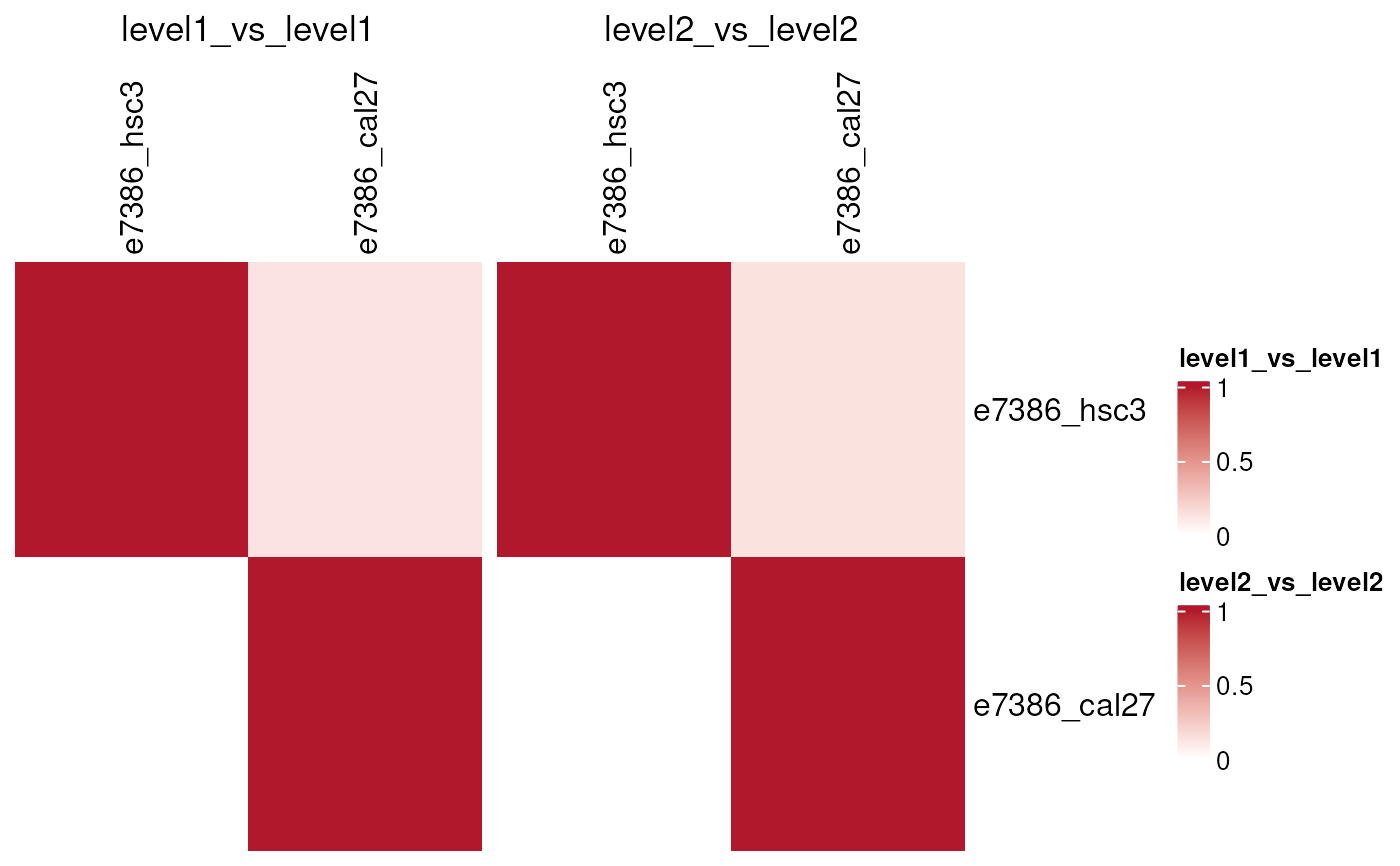
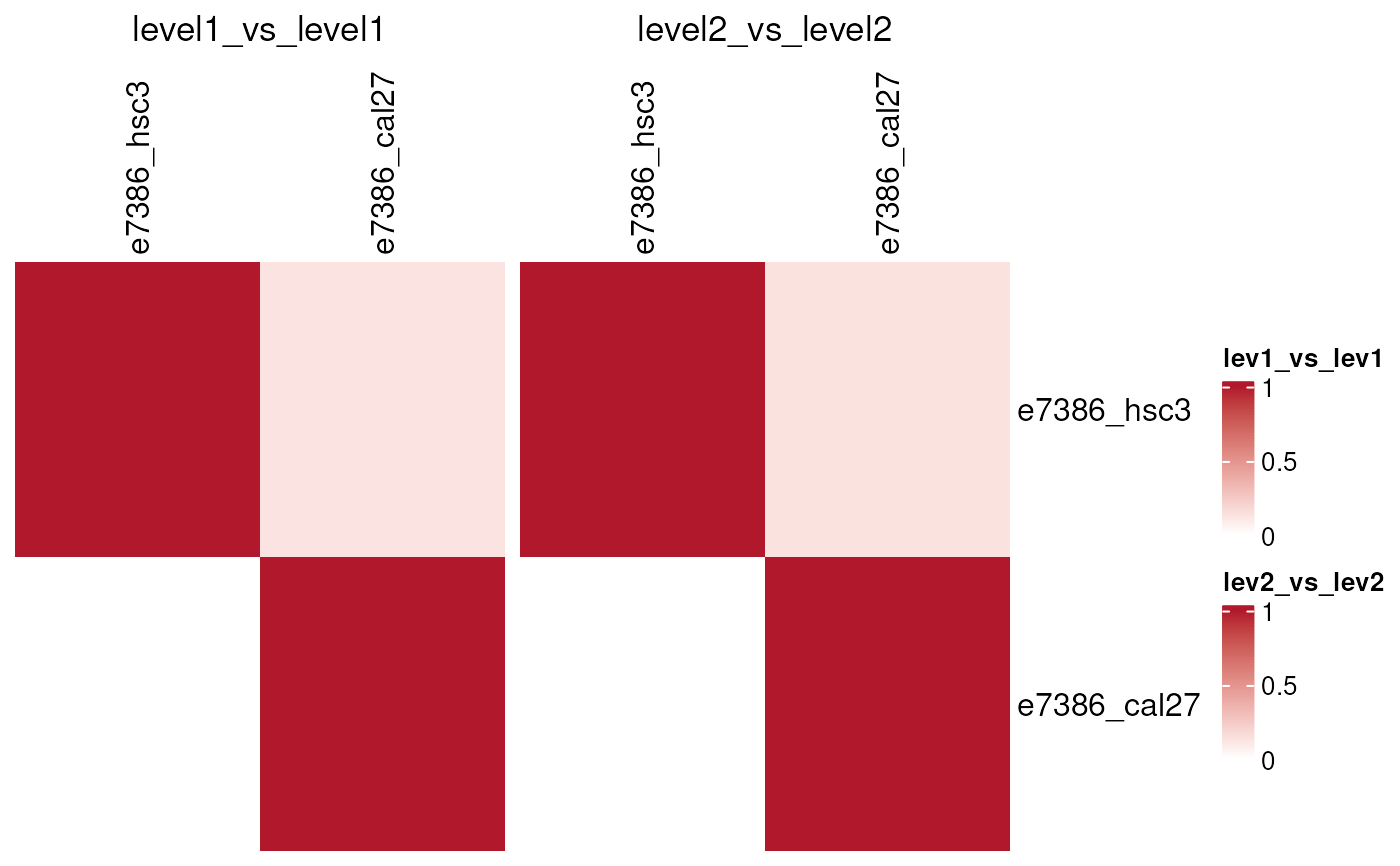
Deploying to gh-pages from @ montilab/OmicSignature@cd31e2afa5b76feede658efe0e186e636c1a1134 🚀

diff --git a/reference/compare_omic_signatures.html b/reference/compare_omic_signatures.html
@@ -67,6 +67,7 @@ a two-sample Kolmogorov-Smirnov test, or fgsea.</p>
 <span>  feature_col <span class="op">=</span> <span class="st">"feature_name"</span>,</span>
 <span>  score_col <span class="op">=</span> <span class="st">"score"</span>,</span>
 <span>  adj_p_col <span class="op">=</span> <span class="st">"adj_p"</span>,</span>
+<span>  p_value_col <span class="op">=</span> <span class="st">"p_value"</span>,</span>
 <span>  group_col <span class="op">=</span> <span class="st">"group_label"</span>,</span>
 <span>  adjust <span class="op">=</span> <span class="cn">FALSE</span>,</span>
 <span>  p_adjust_method <span class="op">=</span> <span class="st">"BH"</span>,</span>
@@ -139,6 +140,11 @@ to use for each signature in `sig_list2`.</p></dd>
 <dd><p>Column containing adjusted p-values in difexp tables.</p></dd>
 
 
+<dt id="arg-p-value-col">p_value_col<a class="anchor" aria-label="anchor" href="#arg-p-value-col"></a></dt>
+<dd><p>Column containing p-values used to rank difexp tables for
+KS and GSEA comparisons.</p></dd>
+
+
 <dt id="arg-group-col">group_col<a class="anchor" aria-label="anchor" href="#arg-group-col"></a></dt>
 <dd><p>Column containing phenotype group labels.</p></dd>
 
@@ -152,7 +158,9 @@ to use for each signature in `sig_list2`.</p></dd>
 
 
 <dt id="arg-alternative">alternative<a class="anchor" aria-label="anchor" href="#arg-alternative"></a></dt>
-<dd><p>Alternative hypothesis for Fisher and KS tests.</p></dd>
+<dd><p>Alternative hypothesis for Fisher and KS tests. For KS,
+<code>"greater"</code> tests whether the feature set is enriched at the top of the
+signed ranking, and <code>"less"</code> tests enrichment at the bottom.</p></dd>
 
 
 <dt id="arg-gsea-score">gsea_score<a class="anchor" aria-label="anchor" href="#arg-gsea-score"></a></dt>
@@ -175,6 +183,16 @@ to use for each signature in `sig_list2`.</p></dd>
 <dd><p>Additional arguments passed to fgsea.</p></dd>
 
 </dl></div>
+    <div class="section level2">
+    <h2 id="details">Details<a class="anchor" aria-label="anchor" href="#details"></a></h2>
+    <p>For `method = "ks"` and `method = "gsea"`, each ranked vector is
+built from both phenotype labels. Features in the requested `group_col`
+label are ranked by positive `-log10(p_value)`, and features in the
+contrasting label are ranked by negative `-log10(p_value)`. This places
+the most significant selected-label features at the top of the ranking and
+the most significant contrast-label features at the bottom. KS compares the
+positions of each retained feature set within this ranked vector.</p>
+    </div>
     <div class="section level2">
     <h2 id="value">Value<a class="anchor" aria-label="anchor" href="#value"></a></h2>
     <p>A list with one element per label pairing. For `method = "overlap"`

diff --git a/reference/signature_similarity_heatmap.html b/reference/signature_similarity_heatmap.html
@@ -6,14 +6,16 @@ Rank-based comparisons can show score or `-log10(p-value)` matrices.
 For rank-based KS and GSEA comparisons, `mode = "combined"` draws the upper
 triangle with split cells: the top-right triangle shows `level2_vs_level2`
 and the bottom-left triangle shows `level1_vs_level1`. `mode = "separate"`
-draws one full heatmap per level, and `mode = "split"` is invalid.'><meta property="og:description" content='Plot one or more ComplexHeatmap heatmaps from the object returned by
+draws one full heatmap per level, and `mode = "split"` is invalid. Legends
+for level-specific displays use abbreviated labels such as `"lev1_vs_lev1"`.'><meta property="og:description" content='Plot one or more ComplexHeatmap heatmaps from the object returned by
 `compare_omic_signatures()`. Overlap comparisons can show Jaccard
 similarity or p-value-based similarity on a `-log10(p-value)` scale.
 Rank-based comparisons can show score or `-log10(p-value)` matrices.
 For rank-based KS and GSEA comparisons, `mode = "combined"` draws the upper
 triangle with split cells: the top-right triangle shows `level2_vs_level2`
 and the bottom-left triangle shows `level1_vs_level1`. `mode = "separate"`
-draws one full heatmap per level, and `mode = "split"` is invalid.'></head><body>
+draws one full heatmap per level, and `mode = "split"` is invalid. Legends
+for level-specific displays use abbreviated labels such as `"lev1_vs_lev1"`.'></head><body>
     <a href="#main" class="visually-hidden-focusable">Skip to contents</a>
 
 
@@ -66,7 +68,8 @@ Rank-based comparisons can show score or `-log10(p-value)` matrices.
 For rank-based KS and GSEA comparisons, `mode = "combined"` draws the upper
 triangle with split cells: the top-right triangle shows `level2_vs_level2`
 and the bottom-left triangle shows `level1_vs_level1`. `mode = "separate"`
-draws one full heatmap per level, and `mode = "split"` is invalid.</p>
+draws one full heatmap per level, and `mode = "split"` is invalid. Legends
+for level-specific displays use abbreviated labels such as `"lev1_vs_lev1"`.</p>
     </div>
 
     <div class="section level2">

diff --git a/articles/CompareSignatures.html b/articles/CompareSignatures.html
@@ -86,7 +86,8 @@ every other signature in the list. For bi-directional signatures, the
 function compares the first factor level against the first factor level
 and the second factor level against the second factor level.</p>
 <div class="sourceCode" id="cb1"><pre class="downlit sourceCode r">
-<code class="sourceCode R"><span><span class="kw"><a href="https://rdrr.io/r/base/library.html" class="external-link">library</a></span><span class="op">(</span><span class="va"><a href="https://github.com/montilab/OmicSignature" class="external-link">OmicSignature</a></span><span class="op">)</span></span>
+<code class="sourceCode R"><span><span class="co">#library(OmicSignature)</span></span>
+<span><span class="fu">devtools</span><span class="fu">::</span><span class="fu"><a href="https://devtools.r-lib.org/reference/load_all.html" class="external-link">load_all</a></span><span class="op">(</span><span class="op">)</span></span>
 <span></span>
 <span><span class="fu"><a href="https://rdrr.io/r/utils/data.html" class="external-link">data</a></span><span class="op">(</span><span class="va">compare_signatures_example</span><span class="op">)</span></span>
 <span><span class="va">signature_list</span> <span class="op">&lt;-</span> <span class="va">compare_signatures_example</span></span>
@@ -169,7 +170,9 @@ signatures need explicit matching.</p>
 feature set from one signature against ranked differential-expression
 scores from another signature. These methods require the compared
 <code>OmicSignature</code> objects to retain their <code>difexp</code>
-tables.</p>
+tables. For each requested <code>group_label</code>, genes are ranked
+from the largest <code>-log10(p_value)</code> in that label to the
+largest <code>-log10(p_value)</code> in the contrasting label.</p>
 <div class="sourceCode" id="cb4"><pre class="downlit sourceCode r">
 <code class="sourceCode R"><span><span class="va">ks_res</span> <span class="op">&lt;-</span> <span class="fu"><a href="../reference/compare_omic_signatures.html">compare_omic_signatures</a></span><span class="op">(</span></span>
 <span>  sig_list1 <span class="op">=</span> <span class="va">signature_list</span>,</span>

diff --git a/articles/CreateOmS.html b/articles/CreateOmS.html
@@ -67,7 +67,7 @@
                         <h4 data-toc-skip class="author">Vanessa Mengze
 Li</h4>
             
-            <h4 data-toc-skip class="date">2026-06-25</h4>
+            <h4 data-toc-skip class="date">2026-06-27</h4>
       
       <small class="dont-index">Source: <a href="https://github.com/montilab/OmicSignature/blob/compare_signatures/vignettes/CreateOmS.Rmd" class="external-link"><code>vignettes/CreateOmS.Rmd</code></a></small>
       <div class="d-none name"><code>CreateOmS.Rmd</code></div>

diff --git a/articles/CreateOmSC.html b/articles/CreateOmSC.html
@@ -67,7 +67,7 @@
                         <h4 data-toc-skip class="author">Vanessa Mengze
 Li</h4>
             
-            <h4 data-toc-skip class="date">2026-06-25</h4>
+            <h4 data-toc-skip class="date">2026-06-27</h4>
       
       <small class="dont-index">Source: <a href="https://github.com/montilab/OmicSignature/blob/compare_signatures/vignettes/CreateOmSC.Rmd" class="external-link"><code>vignettes/CreateOmSC.Rmd</code></a></small>
       <div class="d-none name"><code>CreateOmSC.Rmd</code></div>

diff --git a/articles/FunOmS.html b/articles/FunOmS.html
@@ -67,7 +67,7 @@
                         <h4 data-toc-skip class="author">Vanessa Mengze
 Li</h4>
             
-            <h4 data-toc-skip class="date">2026-06-25</h4>
+            <h4 data-toc-skip class="date">2026-06-27</h4>
       
       <small class="dont-index">Source: <a href="https://github.com/montilab/OmicSignature/blob/compare_signatures/vignettes/FunOmS.Rmd" class="external-link"><code>vignettes/FunOmS.Rmd</code></a></small>
       <div class="d-none name"><code>FunOmS.Rmd</code></div>

diff --git a/articles/FunOmSC.html b/articles/FunOmSC.html
@@ -67,7 +67,7 @@
                         <h4 data-toc-skip class="author">Vanessa Mengze
 Li</h4>
             
-            <h4 data-toc-skip class="date">2026-06-25</h4>
+            <h4 data-toc-skip class="date">2026-06-27</h4>
       
       <small class="dont-index">Source: <a href="https://github.com/montilab/OmicSignature/blob/compare_signatures/vignettes/FunOmSC.Rmd" class="external-link"><code>vignettes/FunOmSC.Rmd</code></a></small>
       <div class="d-none name"><code>FunOmSC.Rmd</code></div>

diff --git a/articles/ObjectStructure.html b/articles/ObjectStructure.html
@@ -67,7 +67,7 @@
                         <h4 data-toc-skip class="author">Vanessa Mengze
 Li</h4>
             
-            <h4 data-toc-skip class="date">2026-06-25</h4>
+            <h4 data-toc-skip class="date">2026-06-27</h4>
       
       <small class="dont-index">Source: <a href="https://github.com/montilab/OmicSignature/blob/compare_signatures/vignettes/ObjectStructure.Rmd" class="external-link"><code>vignettes/ObjectStructure.Rmd</code></a></small>
       <div class="d-none name"><code>ObjectStructure.Rmd</code></div>

diff --git a/articles/SampleType.html b/articles/SampleType.html
@@ -67,7 +67,7 @@
                         <h4 data-toc-skip class="author">Vanessa Mengze
 Li</h4>
             
-            <h4 data-toc-skip class="date">2026-06-25</h4>
+            <h4 data-toc-skip class="date">2026-06-27</h4>
       
       <small class="dont-index">Source: <a href="https://github.com/montilab/OmicSignature/blob/compare_signatures/vignettes/SampleType.Rmd" class="external-link"><code>vignettes/SampleType.Rmd</code></a></small>
       <div class="d-none name"><code>SampleType.Rmd</code></div>

diff --git a/reference/compare_omic_signatures.md b/reference/compare_omic_signatures.md
@@ -20,6 +20,7 @@ compare_omic_signatures(
   feature_col = "feature_name",
   score_col = "score",
   adj_p_col = "adj_p",
+  p_value_col = "p_value",
   group_col = "group_label",
   adjust = FALSE,
   p_adjust_method = "BH",
@@ -88,6 +89,11 @@ compare_omic_signatures(
 
   Column containing adjusted p-values in difexp tables.
 
+- p_value_col:
+
+  Column containing p-values used to rank difexp tables for KS and GSEA
+  comparisons.
+
 - group_col:
 
   Column containing phenotype group labels.
@@ -102,7 +108,9 @@ compare_omic_signatures(
 
 - alternative:
 
-  Alternative hypothesis for Fisher and KS tests.
+  Alternative hypothesis for Fisher and KS tests. For KS, `"greater"`
+  tests whether the feature set is enriched at the top of the signed
+  ranking, and `"less"` tests enrichment at the bottom.
 
 - gsea_score:
 
@@ -123,6 +131,17 @@ compare_omic_signatures(
 - ...:
 
   Additional arguments passed to fgsea.
+
+## Details
+
+For \`method = "ks"\` and \`method = "gsea"\`, each ranked vector is
+built from both phenotype labels. Features in the requested
+\`group_col\` label are ranked by positive \`-log10(p_value)\`, and
+features in the contrasting label are ranked by negative
+\`-log10(p_value)\`. This places the most significant selected-label
+features at the top of the ranking and the most significant
+contrast-label features at the bottom. KS compares the positions of each
+retained feature set within this ranked vector.
 
 ## Value
 

diff --git a/articles/CompareSignatures.md b/articles/CompareSignatures.md
@@ -17,7 +17,8 @@ level.
 
 ``` r
 
-library(OmicSignature)
+#library(OmicSignature)
+devtools::load_all()
 
 data(compare_signatures_example)
 signature_list <- compare_signatures_example
@@ -97,7 +98,9 @@ paired_res <- compare_omic_signatures(
 The `ks` and `gsea` methods compare a retained feature set from one
 signature against ranked differential-expression scores from another
 signature. These methods require the compared `OmicSignature` objects to
-retain their `difexp` tables.
+retain their `difexp` tables. For each requested `group_label`, genes
+are ranked from the largest `-log10(p_value)` in that label to the
+largest `-log10(p_value)` in the contrasting label.
 
 ``` r
 

diff --git a/reference/signature_similarity_heatmap.md b/reference/signature_similarity_heatmap.md
@@ -8,7 +8,8 @@ For rank-based KS and GSEA comparisons, \`mode = "combined"\` draws the
 upper triangle with split cells: the top-right triangle shows
 \`level2_vs_level2\` and the bottom-left triangle shows
 \`level1_vs_level1\`. \`mode = "separate"\` draws one full heatmap per
-level, and \`mode = "split"\` is invalid.
+level, and \`mode = "split"\` is invalid. Legends for level-specific
+displays use abbreviated labels such as \`"lev1_vs_lev1"\`.
 
 ## Usage
 